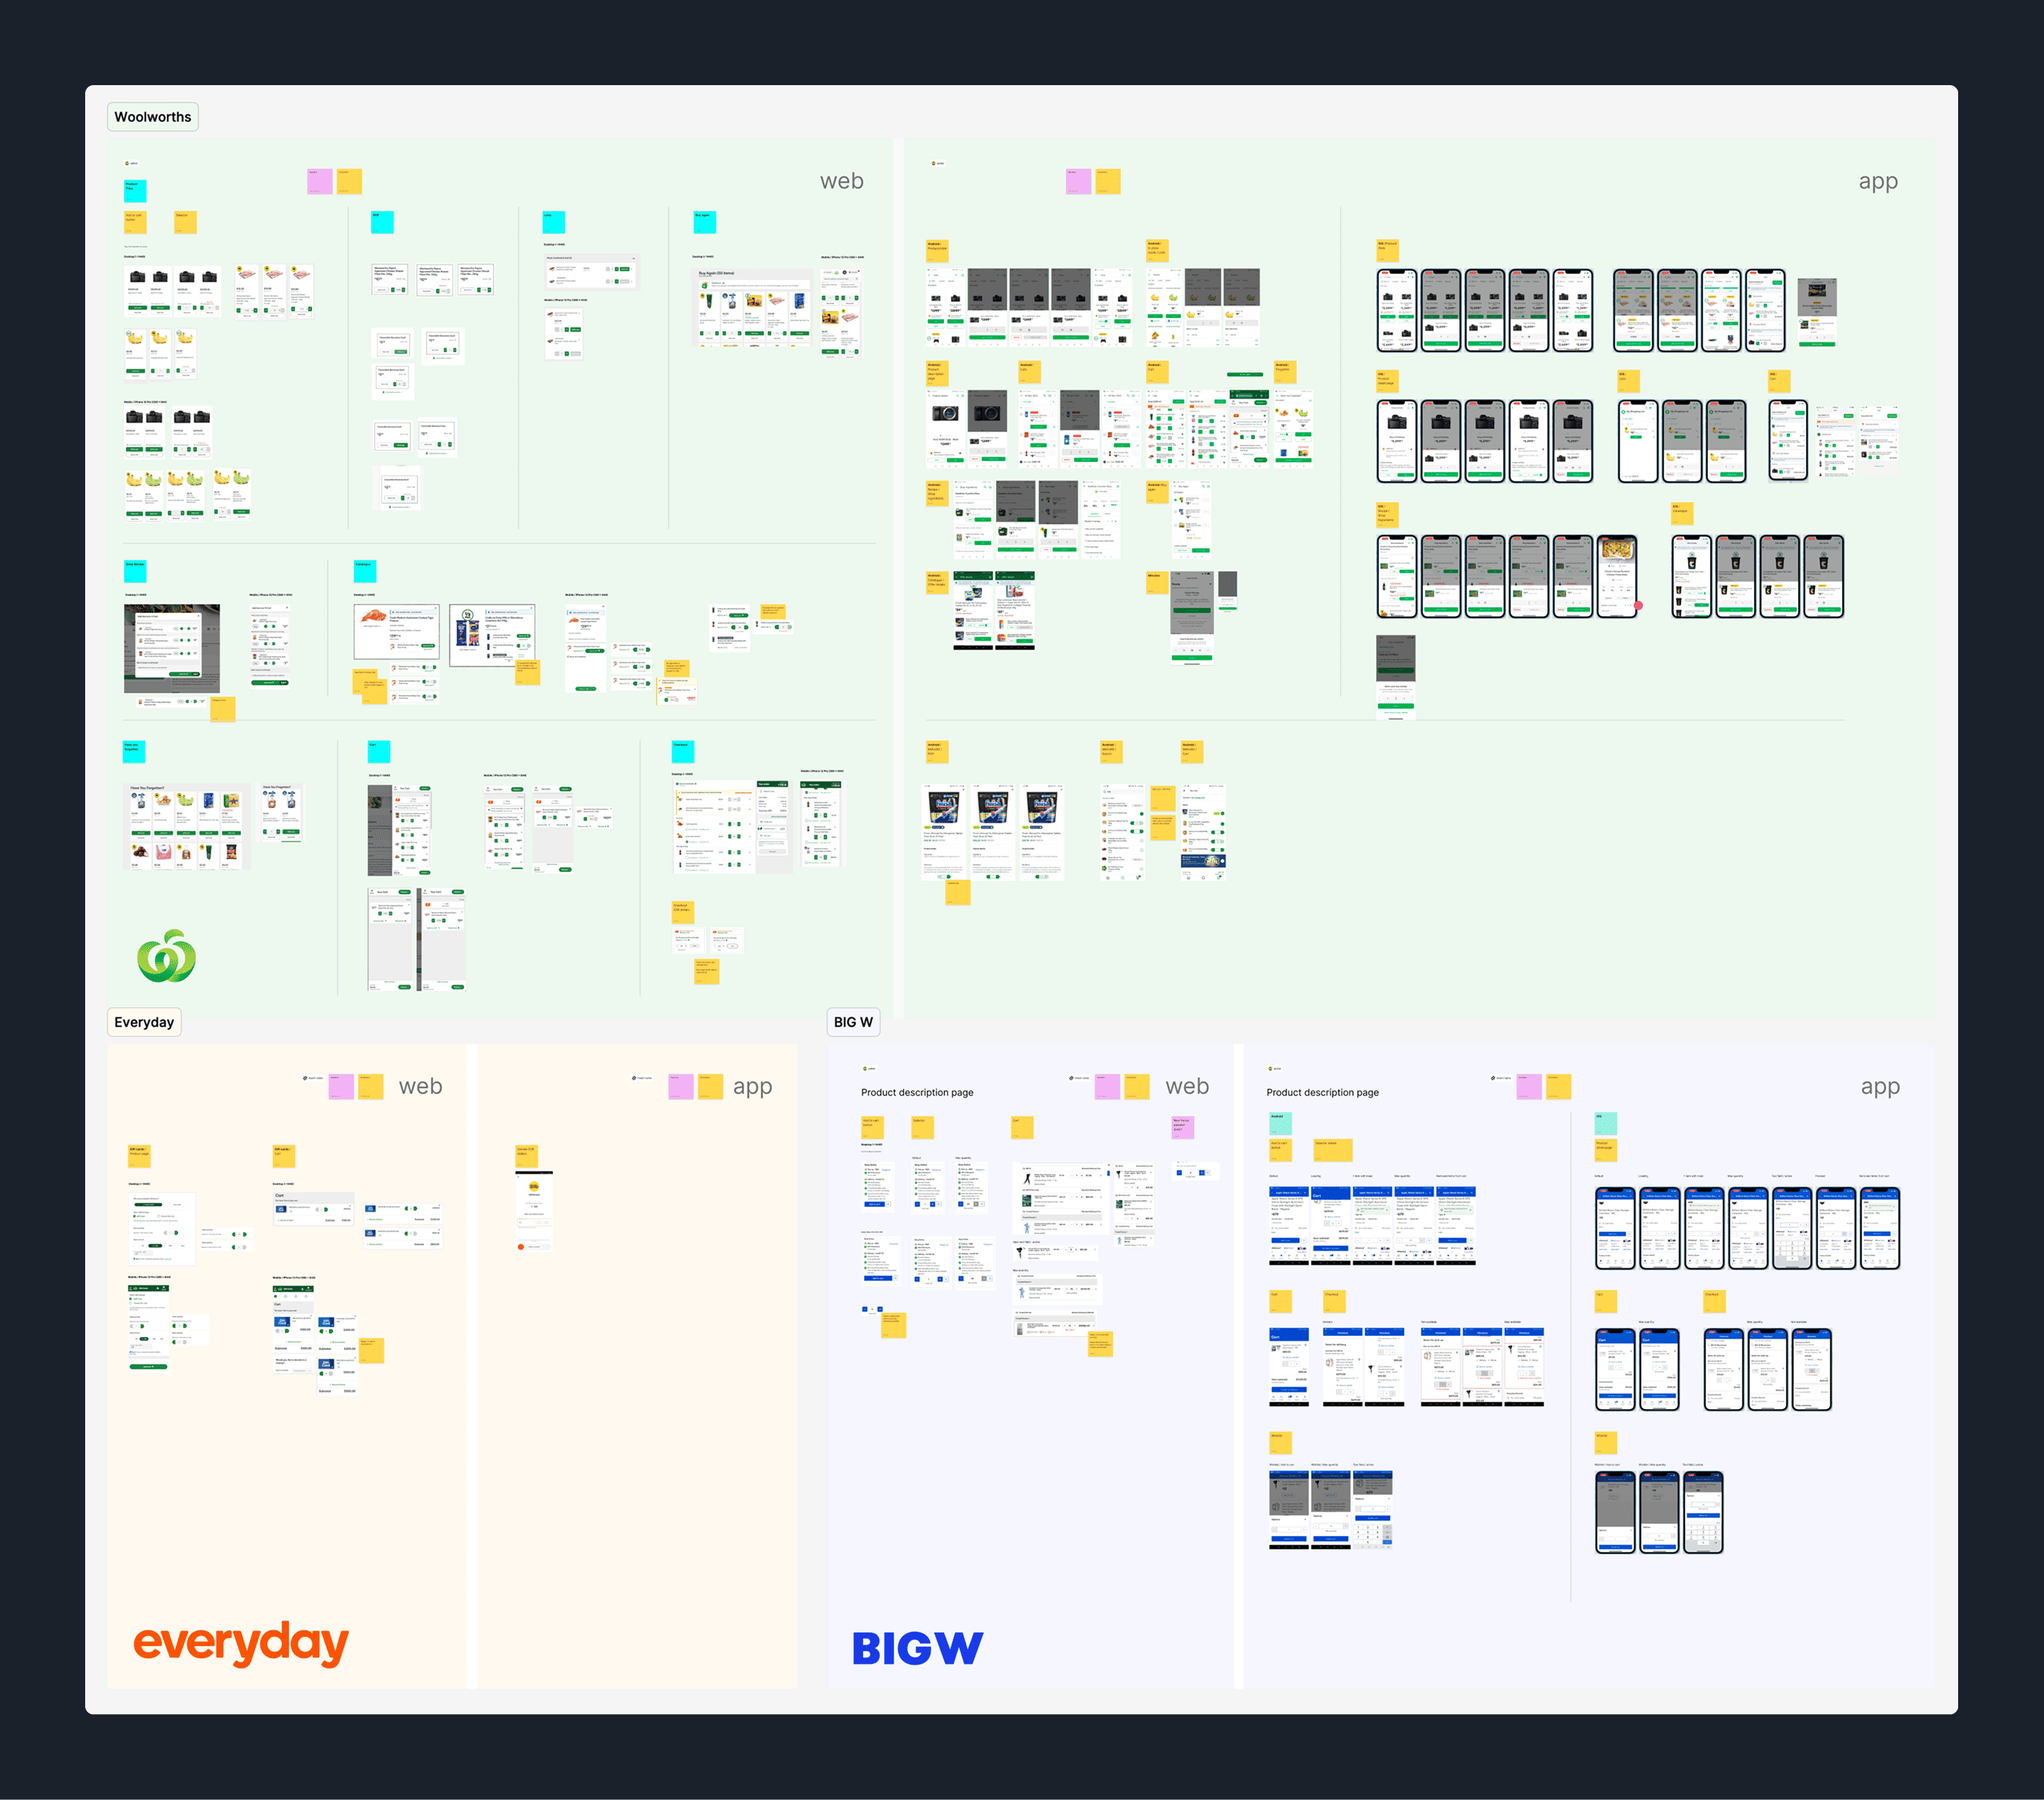
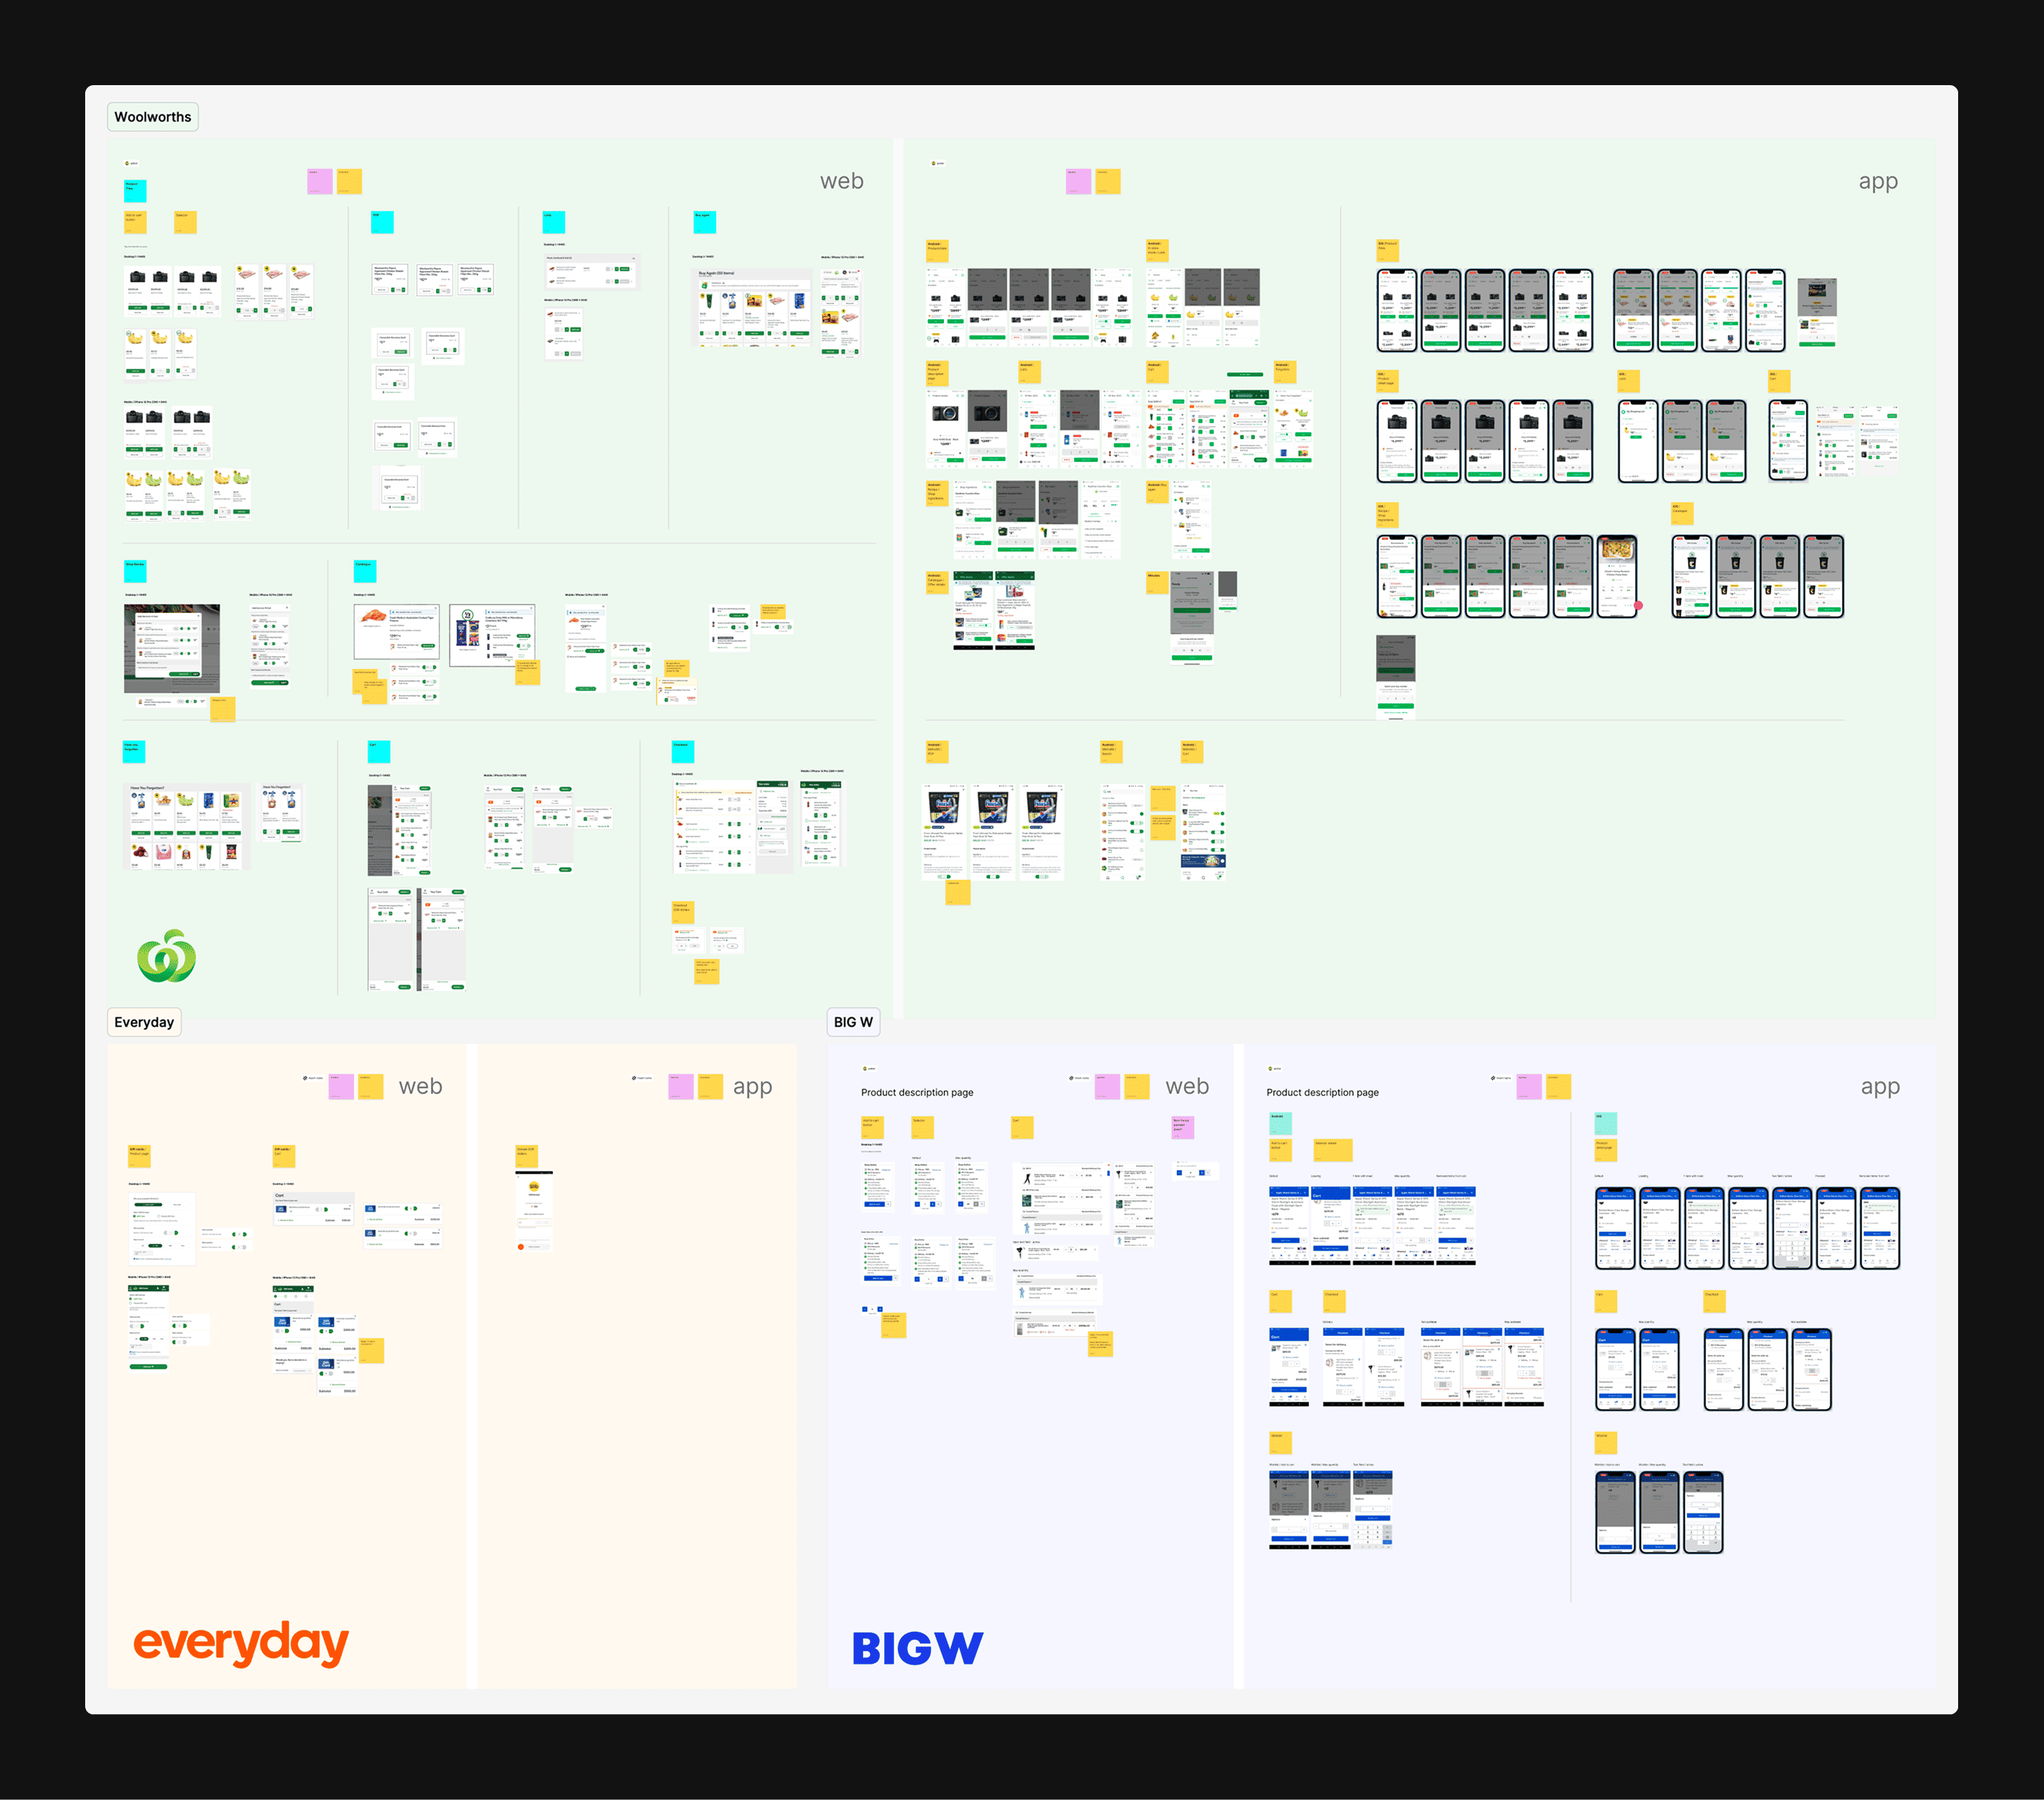
update

Changed region(s): [[0.0, 0.0, 1.0, 1.0]]

diff --git a/css/main.css b/css/main.css
@@ -14,7 +14,7 @@ html {
   --body-font: 'Mona Sans', sans-serif;
   --accent-color: #AAB6C4;
   --bold-color: #E9F0F8;
-  --background-color: #111111;
+  --background-color: #0A0A0A;
   --font-color: #C2D1E1;
   --border-radius: 8px;
   --opacity: 0.2;
